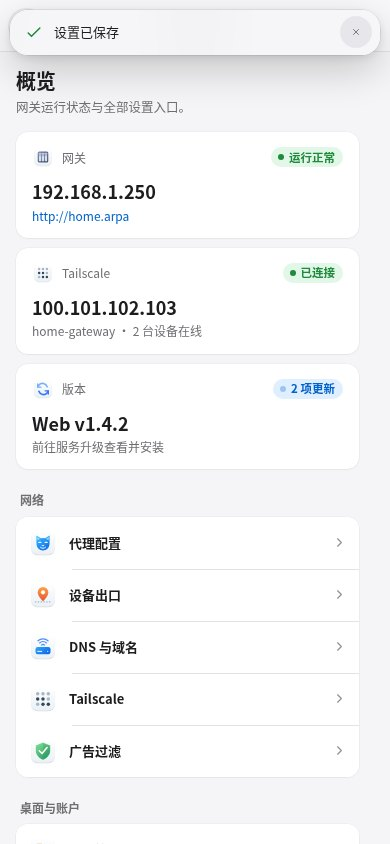
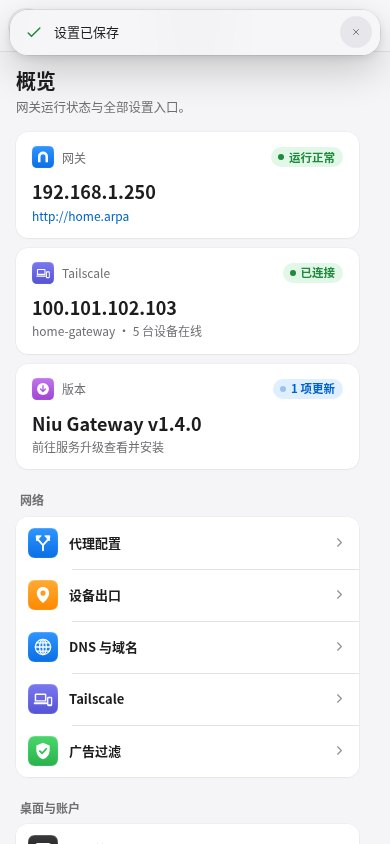
Let windows stretch freely, explain NAS desktops that cannot run in a window, and refresh the README
Windows were capped at the size the browser had when they opened, and could
not reach into the Dock area. They now resize up to the whole browser window,
down behind the Dock as on macOS, while zoom still stops above the Dock.

A NAS web desktop such as UGOS Pro reads its own objects from the window
above it. Inside a window on another origin that read throws and the page
stays blank. The frame check now also reads the page's inline scripts and
reports such reads, and the window explains it and offers a new tab; because
this is a judgement from the script text, the page can stay in the window.

The README gets an AI-generated showcase and architecture diagram, fresh
captures of the current UI, the Account & Security wording, the proxy editor
section names, the window behaviour and where Niu Gateway releases are
published. CONTRIBUTING records the release tag and the 0.01 version step.

diff --git a/gateway/web/app.js b/gateway/web/app.js
@@ -481,7 +481,7 @@ async function loadOverview(request){
   }else{setTone($('#overview-ts-state'),'读取失败','error');$('#overview-ts-ip').textContent='—';$('#overview-ts-detail').textContent=ts.reason.message;}
   const info=release.status==='fulfilled'?release.value:null,u=updateState.status==='fulfilled'?updateState.value:null,count=countUpdates(u,info);
   setUpdateBadge(count);
-  $('#overview-web-version').textContent=info?'Web '+releaseLabel(info.current):'—';
+  $('#overview-web-version').textContent=info?'Niu Gateway '+releaseLabel(info.current):'—';
   const detail=$('#overview-update-detail'),state=$('#overview-update-state');
   if(!u&&!info){setTone(state,'读取失败','error');detail.textContent=(updateState.reason||release.reason).message;}
   else if(count){setTone(state,count+' 项更新','busy');detail.textContent='前往服务升级查看并安装';}
@@ -638,14 +638,18 @@ function createGatewayWindow(shell, title, iconPath, close, {toolbar=null, app='
   const mobile=phone.matches,bounds=windowBounds();
   const w=Math.min(width,innerWidth-48),h=Math.min(height,innerHeight-bounds.top-bounds.bottom-24);
   const win = new WinBox({title, icon:iconPath, mount:shell, class:['gateway-window','no-full'],
-    width:w, height:h, minwidth:Math.min(420,innerWidth), minheight:Math.min(320,innerHeight), x:'center',
-    y:mobile ? 0 : Math.max(bounds.top+8,bounds.top+(innerHeight-bounds.top-bounds.bottom-h)/2), top:bounds.top, bottom:bounds.bottom,
+    // The browser window bounds a window's size, not the size it had when the window opened.
+    width:w, height:h, minwidth:Math.min(420,innerWidth), minheight:Math.min(320,innerHeight), maxwidth:Infinity, maxheight:Infinity, x:'center',
+    y:mobile ? 0 : Math.max(bounds.top+8,bounds.top+(innerHeight-bounds.top-bounds.bottom-h)/2), top:bounds.top, bottom:0,
     header:52, max:mobile,
     onclose(force) { if (force) return false; close(); return true; },
     onfocus(){ lastGatewayWindow=this; $('#menubar-app').textContent=title; },
     onblur(){ if(!document.querySelector('.winbox.focus'))$('#menubar-app').textContent='Niu Gateway'; },
     onminimize(){ $('#menubar-app').textContent='Niu Gateway'; }});
   win.app=app;
+  // As on macOS, a window can be stretched or moved down behind the Dock, while zoom stops above it.
+  const zoom=win.maximize;
+  win.maximize=function(state){this.bottom=windowBounds().bottom;try{return zoom.call(this,state);}finally{this.bottom=0;}};
   for (const [cls, action] of [['wb-close','关闭'],['wb-min','最小化'],['wb-max','缩放']]) {
     const control = win.window.querySelector('.'+cls);
     control.setAttribute('role','button');
@@ -729,19 +733,22 @@ function openFrameApp(key,app=frameApps[key]){
   const win=createGatewayWindow(shell,app.title,app.icon,()=>closeFrameApp(key),{toolbar:bar,app:key,width:app.width,height:app.height});
   frameWindows.set(key,win);markRunningApps();
 }
-// Another host may be offline, use a certificate this browser has not trusted yet, or
-// forbid other pages from showing it. A page cannot read a cross-origin frame, so ask the
-// host directly, and let the gateway read the headers that decide whether it may be framed.
+// Another host may be offline, use a certificate this browser has not trusted yet, forbid
+// other pages from showing it, or run only as the top window. A page cannot read a
+// cross-origin frame, so ask the host directly, and let the gateway read its headers and scripts.
 const frameProblems={
   unreachable:'地址暂时无法访问，或这个网站使用了浏览器尚未信任的证书。请先在新标签页中打开它（自签名证书需要先选择继续访问），再回到这里重试。',
   refused:'这个网站不允许其他页面把它显示在窗口里（网站的 X-Frame-Options 或 CSP 设置），窗口中只会是空白。请在新标签页中打开它。',
   mixed:'当前网关页面通过 HTTPS 打开，浏览器不允许在其中显示 HTTP 网站。请在新标签页中打开它。',
+  parent:'这个页面只能作为独立页面运行（例如 NAS 的网页桌面会读取上层窗口），放在窗口里通常只会显示空白。请在新标签页中打开它。',
 };
 function frameNotice(key,app,page,retry){
   const notice=element('div',undefined,'frame-notice'),box=element('div',undefined,'frame-notice-box'),actions=element('div',undefined,'window-actions');
   const image=element('img');image.src=app.icon;image.alt='';image.width=64;image.height=64;
   const tab=element('a','在新标签页中打开','button-link');tab.href=page;tab.target='_blank';tab.rel='noopener noreferrer';
   const copy=element('p'),again=button('重试',retry,'primary');actions.append(tab,again);
+  // The page-script check is a judgement, not a header: let a page that works stay in the window.
+  const stay=button('继续在窗口中显示',()=>{notice.hidden=true;});actions.prepend(stay);
   // A link that can never show in a window can switch to a new tab for good.
   const card=key.startsWith('link:')?cards.find(c=>'link:'+c.id===key):null;
   const always=card&&button('以后都在新标签页打开',()=>{
@@ -751,7 +758,7 @@ function frameNotice(key,app,page,retry){
   if(always)actions.prepend(always);
   notice.show=kind=>{
     copy.textContent=frameProblems[kind];const final=kind!=='unreachable';
-    again.hidden=final;tab.classList.toggle('primary',final);if(always)always.hidden=!final;notice.hidden=false;
+    again.hidden=final;stay.hidden=kind!=='parent';tab.classList.toggle('primary',final);if(always)always.hidden=!final;notice.hidden=false;
   };
   box.append(image,element('strong','无法在窗口中打开“'+app.title+'”'),copy,actions);
   notice.append(box);notice.hidden=true;return notice;
@@ -764,7 +771,8 @@ async function checkFrame(url,shell){
   const framing=api('/frame-check?url='+encodeURIComponent(target.href)+'&origin='+encodeURIComponent(location.origin)).catch(()=>null);
   try{await fetch(target.href,{mode:'no-cors',cache:'no-store',credentials:'omit',referrerPolicy:'no-referrer',signal:AbortSignal.timeout?.(10000)});}
   catch{show('unreachable');return;}
-  if((await framing)?.framable===false)show('refused');
+  const verdict=await framing;
+  if(verdict?.framable===false)show(verdict.reason==='parent-window'?'parent':'refused');
 }
 function closeFrameApp(key){
   const win=frameWindows.get(key);if(!win)return;

diff --git a/gateway/web/index.html b/gateway/web/index.html
@@ -446,6 +446,6 @@
   <script src="/vendor/winbox/winbox.min.js?v=cd0b4efd9450"></script>
   <script src="/proxy-editor.js?v=5e068a45ef9a"></script>
   <script src="/build-info.js?v=42e43273fa60"></script>
-  <script src="/app.js?v=100eb2b095a1"></script>
+  <script src="/app.js?v=f49bb406eca5"></script>
 </body>
 </html>

diff --git a/gateway/app/favicon.py b/gateway/app/favicon.py
@@ -129,27 +129,37 @@ def follow(url, deadline, accept, use):
     raise ValueError('Icon unavailable')
 
 
+def read_upto(response, sock, size, deadline):
+    """Read at most `size` bytes of a response body."""
+    chunks, total = [], 0
+    while total < size:
+        # read1 avoids waiting for an entire chunk when a peer trickles data.
+        timeout = remaining(deadline)
+        if sock.fileno() >= 0:
+            sock.settimeout(timeout)
+        chunk = response.read1(min(65536, size - total))
+        if not chunk:
+            break
+        chunks.append(chunk)
+        total += len(chunk)
+    return b''.join(chunks)
+
+
+def readable(response):
+    return response.status == 200 and response.getheader('Content-Encoding', 'identity').lower() == 'identity'
+
+
 def fetch(url, limit, deadline):
     def read(response, sock, url):
-        if response.status != 200 or response.getheader('Content-Encoding', 'identity').lower() != 'identity':
+        if not readable(response):
             raise ValueError('Icon unavailable')
         length = response.getheader('Content-Length')
         if length is not None and int(length) > limit:
             raise ValueError('Icon response too large')
-        chunks, size = [], 0
-        while True:
-            # read1 avoids waiting for an entire chunk when a peer trickles data.
-            timeout = remaining(deadline)
-            if sock.fileno() >= 0:
-                sock.settimeout(timeout)
-            chunk = response.read1(min(65536, limit + 1 - size))
-            if not chunk:
-                break
-            chunks.append(chunk)
-            size += len(chunk)
-            if size > limit:
-                raise ValueError('Icon response too large')
-        return b''.join(chunks), response.getheader('Content-Type', ''), url
+        body = read_upto(response, sock, limit + 1, deadline)
+        if len(body) > limit:
+            raise ValueError('Icon response too large')
+        return body, response.getheader('Content-Type', ''), url
     return follow(url, deadline, ICON_ACCEPT, read)
 
 
@@ -216,6 +226,30 @@ def frame_verdict(headers, page, resource):
     return ''
 
 
+# A page may also run only as the top window. A NAS desktop such as UGOS Pro reads its own
+# objects from the window above it; in a frame on another origin that read throws and the
+# page stays blank. Only these properties of another origin's window can be used.
+CROSS_ORIGIN_WINDOW = {'blur', 'close', 'closed', 'focus', 'frames', 'length', 'location', 'opener',
+                       'parent', 'postMessage', 'self', 'top', 'window'}
+SCRIPT = re.compile(r'<script\b([^>]*)>(.*?)</script\s*>', re.I | re.S)
+SCRIPT_TYPE = re.compile(r'\btype\s*=\s*["\']?([^"\'\s>]+)', re.I)
+PARENT_READ = re.compile(r'(?<![\w$.])(?:(?:window|self|globalThis)\s*\.\s*)?(?:parent|top)\s*'
+                         r'(?:\.\s*([A-Za-z_$][\w$]*)|\[\s*(["\'])([^"\'\\]+)\2\s*\])')
+
+
+def reads_parent_window(html):
+    """Whether an inline script of the page reads a property another origin's window does not expose."""
+    for attributes, code in SCRIPT.findall(html):
+        kind = SCRIPT_TYPE.search(attributes)
+        kind = kind.group(1).lower() if kind else ''
+        if re.search(r'\bsrc\s*=', attributes, re.I) or (kind and kind != 'module' and 'javascript' not in kind and 'ecmascript' not in kind):
+            continue
+        for match in PARENT_READ.finditer(code):
+            if (match.group(1) or match.group(3)) not in CROSS_ORIGIN_WINDOW:
+                return True
+    return False
+
+
 def frame_check(value, origin):
     """Whether a page at `origin` can show `value` in a frame: True, False, or None when the site cannot be read."""
     page = parse_origin(origin)
@@ -223,11 +257,20 @@ def frame_check(value, origin):
     if not _requests.acquire(blocking=False):
         return None, ''
     try:
+        deadline = time.monotonic() + TIME_BUDGET
+
         def verdict(response, sock, final):
             parsed = urlsplit(final)
             resource = parsed.scheme, parsed.hostname.lower(), parsed.port or DEFAULT_PORTS[parsed.scheme]
-            return frame_verdict(response.headers, page, resource)
-        reason = follow(url, time.monotonic() + TIME_BUDGET, 'text/html,*/*;q=0.8', verdict)
+            reason = frame_verdict(response.headers, page, resource)
+            if reason or resource == page or not readable(response) or 'html' not in response.getheader('Content-Type', '').lower():
+                return reason
+            try:
+                html = read_upto(response, sock, MAX_HTML, deadline)
+            except (OSError, http.client.HTTPException):
+                return ''
+            return 'parent-window' if reads_parent_window(html.decode('utf-8', errors='replace')) else ''
+        reason = follow(url, deadline, 'text/html,*/*;q=0.8', verdict)
     except (ValueError, OSError, http.client.HTTPException):
         return None, ''
     finally:

diff --git a/gateway/tests/test_favicon.py b/gateway/tests/test_favicon.py
@@ -59,6 +59,9 @@ class FixtureHandler(BaseHTTPRequestHandler):
             body = b'<html></html>'
             headers['X-Frame-Options'] = 'DENY'
             headers['Content-Security-Policy'] = "default-src 'self'; frame-ancestors 'self' http://192.168.1.250"
+        elif self.path == '/desktop':
+            # A NAS desktop that runs only as the top window.
+            body = b'<html><script>window.mainProcess = window.parent.mainProcess;</script></html>'
         elif self.path in ('/assets/icon.png', '/favicon.ico'):
             body = PNG
             headers['Content-Type'] = 'image/png'
@@ -168,6 +171,9 @@ class FaviconTests(unittest.TestCase):
             self.assertEqual(favicon.frame_check(self.base + '/login', gateway), (False, 'x-frame-options'))
             self.assertEqual(favicon.frame_check(self.base + '/csp', gateway), (True, ''))
             self.assertEqual(favicon.frame_check(self.base + '/csp', 'http://192.168.1.99'), (False, 'frame-ancestors'))
+            self.assertEqual(favicon.frame_check(self.base + '/desktop', gateway), (False, 'parent-window'))
+            # The same page served by the gateway itself may read its parent.
+            self.assertEqual(favicon.frame_check(self.base + '/desktop', self.base), (True, ''))
         self.assertIn('/xfo-sameorigin', [path for path, _ in FixtureHandler.requests])
         for _, headers in FixtureHandler.requests:
             self.assertNotIn('Cookie', headers)
@@ -200,6 +206,26 @@ class FaviconTests(unittest.TestCase):
             with self.subTest(policy=policy, page=page):
                 self.assertEqual(verdict(page, Content_Security_Policy=policy), expected)
         self.assertEqual(verdict(gateway, Content_Security_Policy=['frame-ancestors *', "frame-ancestors 'self'"]), 'frame-ancestors')
+
+    def test_pages_that_read_their_parent_window(self):
+        cases = {
+            '<script>window.mainProcess = window.parent.mainProcess;</script>': True,
+            '<script>const p = top.mainProcess</script>': True,
+            "<script>var m = window.top['mainProcess'];</script>": True,
+            '<script>document.title = self.parent.document.title</script>': True,
+            '<script type="module">window.parent.app.start()</script>': True,
+            '<SCRIPT type="text/javascript">parent.desktop.open()</SCRIPT>': True,
+            '<script>if (window.top !== window.self) top.location = location.href</script>': False,
+            "<script>window.parent.postMessage({ready: true}, '*')</script>": False,
+            '<script>node.parent.children.length; el.style.top.length</script>': False,
+            '<script type="application/json">{"a": "top.secret"}</script>': False,
+            '<script src="parent.js">window.parent.x</script>': False,
+            '<script>if (window.parent === window) start()</script>': False,
+            '<p>window.parent.mainProcess</p>': False,
+        }
+        for html, expected in cases.items():
+            with self.subTest(html=html):
+                self.assertIs(favicon.reads_parent_window(html), expected)
 
 
 if __name__ == '__main__':

diff --git a/gateway/README.md b/gateway/README.md
@@ -73,11 +73,11 @@ macvlan 使容器拥有独立 LAN 地址，因此不映射宿主的 80/53 端口
 
 ## 首次设置与日常使用
 
-1. 用局域网浏览器打开 `http://192.168.10.2`，默认管理员密码为 `root`。登录后可在“设置 → 账户”修改，支持 1–256 个字符。`GATEWAY_ADMIN_PASSWORD` 只用于全新容器首次初始化；重启保留已保存的网页密码。删除或重建容器前应备份，并在新容器启动前恢复数据。改密后当前浏览器会话续期，其余旧会话失效。
+1. 用局域网浏览器打开 `http://192.168.10.2`，默认管理员密码为 `root`。登录后可在“设置 → 账户与安全”修改，支持 1–256 个字符。`GATEWAY_ADMIN_PASSWORD` 只用于全新容器首次初始化；重启保留已保存的网页密码。删除或重建容器前应备份，并在新容器启动前恢复数据。改密后当前浏览器会话续期，其余旧会话失效。
 
    容器 SSH 默认账号和密码均为 `root`，可通过 Compose 的 `GATEWAY_CONTAINER_USER` 和 `GATEWAY_CONTAINER_PASSWORD` 修改，重建后应用；SSH 账号设置与网页密码独立。新建容器的 root HOME 位于 `/data/home`，随 `/data` 备份；Linux 原生安装保留宿主 root HOME。GitHub CLI 已安装，使用自己的账号运行 `gh auth login`，凭据保存在容器内部 HOME 中，干净镜像不包含个人登录。
 
-   可信私网可在“设置 → 账户 → 密码登录”关闭“进入网关时需要密码”，输入当前密码并保存。关闭后，能访问网页的设备可直接管理网关、Clash 和 AdGuard Home；SSH 认证独立保留。原网页密码和登录开关保存在容器内部，重启沿用，改密不会改变开关。重新开启仍需当前密码，并使其他旧会话失效。全新容器默认开启密码登录；管理员密码和登录开关均不随配置备份导出或恢复。
+   可信私网可在“设置 → 账户与安全”关闭“登录需要密码”，输入当前密码并保存。关闭后，能访问网页的设备可直接管理网关、Clash 和 AdGuard Home，也可以使用网页终端；SSH 认证独立保留。原网页密码和登录开关保存在容器内部，重启沿用，改密不会改变开关。重新开启仍需当前密码，并使其他旧会话失效。全新容器默认开启密码登录；管理员密码和登录开关均不随配置备份导出或恢复。
 2. 从 Dock 或“设置 → 代理配置”打开代理配置。可从当前配置开始，也可在“YAML 配置”中导入 Clash/Mihomo 的 `.yaml` 或 `.yml`（最大 2 MB）。
    - “订阅地址”支持添加、编辑和删除。保存后，业务分组和 AI 中转组直接列出合并的订阅节点。订阅先按名称过滤免费、流量、到期、套餐和更新订阅等提示项，再按订阅顺序合并。默认列表中的同名节点只显示一次。可在此修改 `proxy-providers` 的 HTTP(S) 地址。
    - “中转出口”支持多个 HTTP、HTTPS 或 SOCKS5 节点，可修改名称、服务器、端口和认证。HTTP 和 HTTPS 出口必须经过中转，在编辑器中保存时前置代理固定为 `🔗 PROXY-RELAY`；还没有订阅地址时这些出口无法连通。SOCKS5 出口的前置代理默认也是 `🔗 PROXY-RELAY`，可以改为“无”。
@@ -101,19 +101,19 @@ macvlan 使容器拥有独立 LAN 地址，因此不映射宿主的 80/53 端口
 
 ## 桌面与设置窗口
 
-- 页面采用 macOS 风格：顶部菜单栏，底部 Dock，桌面放自定义链接。Dock 默认放控制面板、代理配置、局域网互传、工作站、终端、Clash 面板和 AdGuard Home。它们和自定义链接都在当前页面的窗口中打开，不新开标签页；窗口工具栏可重新载入，或在新标签页中打开。打不开的外部地址（离线，或浏览器尚未信任的自签名证书）会在窗口里提示先在新标签页打开，再重试。网站用 `X-Frame-Options` 或 CSP `frame-ancestors` 禁止被其他页面嵌入时，浏览器只会显示空白；网关在打开窗口时读取这些响应头（只读响应头，不带浏览器的 Cookie），窗口会说明原因，并提供“在新标签页中打开”和“以后都在新标签页打开”。网关页面通过 HTTPS 打开时，HTTP 网站同样只能在新标签页中打开。
+- 页面采用 macOS 风格：顶部菜单栏，底部 Dock，桌面放自定义链接。Dock 默认放控制面板、代理配置、局域网互传、工作站、终端、Clash 面板和 AdGuard Home。它们和自定义链接都在当前页面的窗口中打开，不新开标签页；窗口工具栏可重新载入，或在新标签页中打开。打不开的外部地址（离线，或浏览器尚未信任的自签名证书）会在窗口里提示先在新标签页打开，再重试。网站用 `X-Frame-Options` 或 CSP `frame-ancestors` 禁止被其他页面嵌入时，浏览器只会显示空白；网关在打开窗口时读取这些响应头（只读响应头，不带浏览器的 Cookie），窗口会说明原因，并提供“在新标签页中打开”和“以后都在新标签页打开”。有些网页只能作为独立页面运行：例如 UGOS Pro 等 NAS 的网页桌面会读取上层窗口里的对象，放进其他地址的窗口后脚本出错，同样只剩空白。网关会读取页面自带的内联脚本（最多 256 KB），发现它读取上层窗口时给出同样的说明；这是根据脚本内容的判断，页面其实能用时可选“继续在窗口中显示”。网关页面通过 HTTPS 打开时，HTTP 网站同样只能在新标签页中打开。
 - 工作站默认在窗口中打开 `https://工作站地址:6080/`（按部署时的 `WORKSTATION_ADDRESS` 生成，默认 `https://192.168.1.251:6080/`），可在“设置 → 桌面管理”或右键 Dock 中工作站图标的“设置入口地址”中修改 IP、域名、协议和端口。
 - “终端”使用开源的 [ttyd](https://github.com/tsl0922/ttyd)，在窗口中打开网关的 root shell（`bash --login`）。ttyd 只监听容器内的 Unix socket，不开放 TCP 端口，局域网和代理端口都无法直接连到它；Nginx 在转发前按网关的登录设置检查会话（开启“登录需要密码”时需要已登录；关闭后与其他页面一样直接可用），WebSocket 必须来自网关页面本身。终端随网关镜像提供：在线更新 Niu Gateway 不会安装它，旧镜像会提示更新镜像；原生安装不内置终端。
 - 菜单栏左侧是系统菜单和当前窗口名称；右侧显示可用更新、Tailscale 状态和时间，点击可进入对应设置。系统菜单提供关于、控制面板、代理配置、局域网互传、添加桌面链接、个性化和退出登录；“关于 Niu Gateway”显示版本、访问地址、许可证和 GitHub 开源地址。
 - 在桌面空白处右键，可添加链接、刷新桌面、整理图标、按名称排列、打开个性化或控制面板。在图标上右键，可打开、在新标签页中打开、放入程序坞或移到桌面；自定义链接还可编辑或删除。
 - 桌面图标可以拖到任意位置，自动对齐网格；拖到 Dock 上会插入到指针所在的位置，从 Dock 拖到桌面会放在松开的位置。网关应用和自定义链接都可以这样移动。聚焦图标后，`Alt + 方向键` 在桌面上移动一格，或在 Dock 里左右移动。“设置 → 桌面管理”可恢复默认布局，那里的上移、下移按钮决定手机主屏的顺序。工作站地址与桌面布局保存在网关内部，刷新、重启或更换浏览器后都会保留，并包含在网页配置备份中。手机可长按图标打开菜单；键盘可按 `Shift+F10` 打开菜单，方向键选择，`Esc` 关闭。
-- 窗口支持拖动、调整大小、最小化（收进 Dock）和最大化。控制面板首页为“概览”，汇总网关地址与服务状态、Tailscale 连接和可用更新；侧栏可搜索设置，回车打开第一项。窗口较窄时侧栏隐藏，通过工具栏的返回按钮回到列表。
+- 窗口支持拖动、自由调整大小、最小化（收进 Dock）和缩放。宽高最大到整个浏览器窗口，浏览器窗口变大后也能继续拉大；下边缘可以拉到 Dock 后面，和 macOS 一样，绿色缩放按钮仍停在 Dock 上方。控制面板首页为“概览”，汇总网关地址与服务状态、Tailscale 连接和可用更新；侧栏可搜索设置，回车打开第一项。窗口较窄时侧栏隐藏，通过工具栏的返回按钮回到列表。
 - 手机上是 iOS 式主屏：顶部状态栏，四列图标，底部 Dock 放程序坞里的前 4 个应用，其余的排在主屏最前面；长按图标可放入程序坞或移到桌面。应用全屏打开，左上角关闭后回到主屏。
 - “设置 → 账户与安全”中，切换“登录需要密码”后才显示当前密码确认区；“设置 → 备份与恢复”需选择备份文件并勾选确认后才能恢复。
 - “个性化”可更换 3 MB 以内的 PNG、JPEG 或 WebP 壁纸，选择填充、适应、拉伸、居中或平铺。点击“应用”后保存到容器内部，刷新页面后保留；“恢复默认”同样需要点击“应用”。
 - 保存、导入、账户、链接、个性化和表单校验的反馈统一以通知显示：桌面在右下角 Dock 上方，不遮挡窗口工具栏；手机在顶部。通知可以关闭，悬停或键盘聚焦时暂停自动收起，不会挤动窗口内容。
 
-界面示例：[控制面板概览](../docs/images/gateway-control-panel.jpg)、[暗色模式](../docs/images/gateway-control-panel-dark.jpg)、[Clash 配置](../docs/images/gateway-clash-editor.jpg)、[手机主屏](../docs/images/gateway-home-mobile.jpg)、[手机尺寸控制面板](../docs/images/gateway-control-panel-mobile.jpg)、[桌面操作提示](../docs/images/gateway-global-toast-desktop.jpg)、[手机尺寸操作提示](../docs/images/gateway-global-toast-mobile.jpg)。手机尺寸截图来自浏览器响应式视口。
+界面示例：[控制面板概览](../docs/images/gateway-control-panel.jpg)、[暗色模式与 Tailscale 设备](../docs/images/gateway-control-panel-dark.jpg)、[代理配置](../docs/images/gateway-clash-editor.jpg)、[账户与安全](../docs/images/gateway-password-login.jpg)、[手机主屏](../docs/images/gateway-home-mobile.jpg)、[手机尺寸控制面板](../docs/images/gateway-control-panel-mobile.jpg)、[桌面操作提示](../docs/images/gateway-global-toast-desktop.jpg)、[手机尺寸操作提示](../docs/images/gateway-global-toast-mobile.jpg)。手机尺寸截图来自浏览器响应式视口。
 
 窗口、右键菜单、表单、下拉框和确认弹窗随当前外观模式统一切换。浏览器选择本地文件的系统对话框仍由浏览器提供。
 

diff --git a/README.en.md b/README.en.md
@@ -16,9 +16,9 @@ The web console and most of the documentation are in Simplified Chinese. This pa
 
 ![Niu Gateway and AI Workstation](docs/images/gateway-home.png)
 
-*Promotional image; the running version is authoritative. [About the images](docs/images/README.md)*
+*AI-generated promotional image; the running version is authoritative. [About the images](docs/images/README.md)*
 
-Screenshots of the actual UI: [Niu Gateway desktop](docs/images/gateway-control-panel.jpg), [Clash proxy editor](docs/images/gateway-clash-editor.jpg), [phone home screen](docs/images/gateway-home-mobile.jpg), [notifications](docs/images/gateway-global-toast-desktop.jpg).
+Screenshots of the actual UI: [control panel](docs/images/gateway-control-panel.jpg), [dark mode and Tailscale devices](docs/images/gateway-control-panel-dark.jpg), [proxy editor](docs/images/gateway-clash-editor.jpg), [account and security](docs/images/gateway-password-login.jpg), [phone home screen](docs/images/gateway-home-mobile.jpg), [control panel at phone size](docs/images/gateway-control-panel-mobile.jpg), [notifications](docs/images/gateway-global-toast-desktop.jpg).
 
 ## Features
 
@@ -28,12 +28,12 @@ Screenshots of the actual UI: [Niu Gateway desktop](docs/images/gateway-control-
 | Workstation | `192.168.1.251` | XFCE, Chrome, VS Code, Codex, Claude Code, Claude Desktop, GitHub CLI, MCP tools | `ghcr.io/crazyniu/ai-workstation` |
 
 - Niu Gateway, the gateway's port-80 page, is a desktop with a menu bar and Dock, with app and settings icons in the macOS style. The control panel, proxy editor, LAN file transfer, the workstation desktop, the Clash dashboard (MetaCubeXD), AdGuard Home and your own links open in windows on the same page. On a phone it becomes a home screen.
-- Drag any icon to any place on the desktop, or into and out of the Dock. "About Niu Gateway" in the menu bar shows the version and the GitHub repository. When a new version is out, the update window shows its release notes rendered from Markdown.
-- The gateway has a Terminal app ([ttyd](https://github.com/tsl0922/ttyd), open source) that opens a root shell on the gateway in a desktop window. It ships with the gateway image and follows the same login setting as the rest of the console.
+- Drag any icon to any place on the desktop, or into and out of the Dock. Windows resize freely up to the whole browser window, with the bottom edge allowed behind the Dock as on macOS; the green zoom button still stops above the Dock. "About Niu Gateway" in the menu bar shows the version and the GitHub repository. When a new version is out, the update window shows its release notes rendered from Markdown.
+- The gateway has a Terminal app ([ttyd](https://github.com/tsl0922/ttyd), open source) that opens a root shell on the gateway in a desktop window. It ships with the gateway image and follows the same login setting as the rest of the console (账户与安全 → 登录需要密码, Account & Security → require a password).
 - The Tailscale page lists every device with its online state, addresses, traffic and connection path (direct, or DERP relay with the relay's name), and links to Tailscale's access controls, where you configure your own DERP relay servers.
-- The proxy editor assigns an HTTP, HTTPS or SOCKS5 exit to a single IP, an IP range or a subnet, chained through a relay node from your subscription. HTTP and HTTPS exits always go through the relay; for SOCKS5 it is the default. You can also create groups (for example Google or YouTube) and route their domains to a chosen exit. Every change goes into a draft that you apply or discard.
-- Desktop links can fetch site favicons or use custom icons, and can open in a new tab instead of a window. If a site does not allow being shown inside another page, its window says so and offers a new tab. Wallpaper, theme, layout and account settings are stored on the gateway.
-- The gateway asks for a password by default; on a trusted private network you can turn that off in the account settings. The workstation serves an HTTPS noVNC desktop with two-way text clipboard.
+- The proxy editor assigns an HTTP, HTTPS or SOCKS5 exit to a single IP, an IP range or a subnet (设备出口, device exits), chained through a relay node from your subscription (中转出口 relay exits, 订阅地址 subscription URL). HTTP and HTTPS exits always go through the relay; for SOCKS5 it is the default. You can also create groups (分组规则, for example Google or YouTube) and route their domains to a chosen exit. Every change goes into a draft that you apply or discard.
+- Desktop links can fetch site favicons or use custom icons, and can open in a new tab instead of a window. If a site does not allow being shown inside another page, or runs only as a top-level page (a NAS web desktop, for example), its window explains why and offers a new tab, once or for good. Wallpaper, theme, layout and account settings are stored on the gateway.
+- The gateway asks for a password by default; on a trusted private network you can turn that off under 账户与安全 (Account & Security), which also opens the web terminal without a password. The workstation serves an HTTPS noVNC desktop with two-way text clipboard.
 - The gateway manages proxy configuration, DNS, subnet access, component upgrades, and backup and restore.
 - The workstation joins the LAN directly and can open connections to a paired Mac running Orca. To restrict which LAN devices it can reach, keep the Orca port (or other device ports) with **niu.sh → 7** and then enable the optional [LAN isolation](docs/workstation-egress.md#显式启用隔离).
 - Configuration, HOME and account identities stay inside each container. Public images contain only programs and default templates; you add your own subscriptions, identities and data.
@@ -140,7 +140,7 @@ The Docker deployments declare no bind mounts, named volumes or anonymous volume
 
 **Restarting a container keeps its data; deleting or recreating it loses that data.** Before replacing an image, export the private state you need and verify the restore procedure: see [gateway data handling](gateway/README.md) and [workstation backup and restore](workstation/README.md). Keep personal state, recovery images and credentials in private storage.
 
-Component upgrades inside Niu Gateway keep the configuration in `/data` and roll back on failure. Niu Gateway's own pages and API update online under 服务升级 (Updates); nginx, Python, ttyd and the base system are updated by replacing the image.
+Component upgrades inside Niu Gateway keep the configuration in `/data` and roll back on failure. Niu Gateway's own pages and API are released separately on [GitHub Releases](https://github.com/crazyniu/ai-workstation/releases) (tags `gateway-web-vX.Y.Z`); the menu bar shows when a new one is out, and 服务升级 (Updates) shows its release notes and installs it online; nginx, Python, ttyd and the base system are updated by replacing the image.
 
 ## Development
 

diff --git a/docs/images/README.md b/docs/images/README.md
@@ -1,18 +1,19 @@
 # Project showcase
 
-[Niu Gateway desktop overview](gateway-home.png) presents the forest-and-lake desktop, application icons, and grouped control-panel entries used by this project.
+[Niu Gateway showcase](gateway-home.png) is an AI-generated image of the gateway desktop in a browser beside a phone: the coastal wallpaper, the menu bar, the Dock with the project's app icons, and the control panel overview with its status cards. It was generated from the real captures below as references and redrawn, not composited from them.
 
 The image is a project showcase. The running release determines the current interface, labels, and features. It contains no account credentials and serves as presentation material; functional verification is recorded separately.
 
 ## Architecture diagram
 
-[Workstation and gateway architecture](workstation-gateway-architecture.png) is an AI-generated diagram of the Linux LAN deployment and its optional workstation isolation. Addresses and connection directions follow the deployment configuration.
+[Niu Gateway and AI Workstation architecture](workstation-gateway-architecture.png) is an AI-generated diagram of the Linux LAN deployment and its optional workstation isolation. Addresses and connection directions follow the deployment configuration.
 
 ## Gateway interface captures
 
 - [Control panel overview](gateway-control-panel.jpg) shows the desktop at 1280 × 800: the menu bar, the Dock, and the control panel window with its unified toolbar, edge-to-edge sidebar, status cards and grouped setting entries.
-- [Control panel in dark mode](gateway-control-panel-dark.jpg) shows the Tailscale page with status pills and the subnet-route card.
-- [Clash editor](gateway-clash-editor.jpg) shows the proxy configuration window: site groups with their exits, on/off switches and the fallback for other sites.
+- [Control panel in dark mode](gateway-control-panel-dark.jpg) shows the Tailscale page: the connection card and the device list with each device's connection path (direct or DERP relay) and traffic.
+- [Proxy editor](gateway-clash-editor.jpg) shows the proxy configuration window on its 分组规则 (group rules) page: site groups with their exits, on/off switches and the fallback for other sites.
+- [Account and security](gateway-password-login.jpg) shows the 账户与安全 page at 1280 × 720: the 登录需要密码 switch, the administrator password form and the current session.
 - [Desktop operation feedback](gateway-global-toast-desktop.jpg) shows the notification above the Dock, clear of window toolbars.
 - [Phone home screen](gateway-home-mobile.jpg) shows the 390px layout: status bar, four-column icon grid and the Dock.
 - [Control panel at phone size](gateway-control-panel-mobile.jpg) shows the full-screen overview in a 390px browser responsive viewport.

diff --git a/CONTRIBUTING.md b/CONTRIBUTING.md
@@ -52,6 +52,8 @@ python3 gateway/runtime/build-info.py
 
 合并到 `main` 后，只重新构建自上次成功发布以来源码有变化的镜像，覆盖全部架构并验证通过后发布；未变化的镜像把上次发布的版本标记为本次提交的 `sha-<提交号>` 和 `latest`。发布失败时 `latest` 保持上一个通过验证的版本。其他架构的问题可能在合并后才发现，需要提前确认时使用 `full-ci`。测试失败、取消或未正常报告都会阻止通过。合并使用 squash 或 rebase。
 
+Niu Gateway 的网页和 API 另外通过 GitHub Releases 发布：维护者在已合并的 `main` 提交上推送 `gateway-web-vX.Y.Z` 标签，[发布工作流](.github/workflows/gateway-web-release.yml) 打包 `gateway-web.tar.gz` 并设为最新版本，网关的“服务升级”据此在线更新。版本号每次加 0.01，例如 v1.4.0 → v1.4.1。
+
 仓库已开启 GitHub 自动合并。完成授权开发并创建非草稿 PR 后，立即执行 `gh pr merge <编号> --auto --squash --match-head-commit <当前提交>`，由 GitHub 在必过检查及其他保护条件满足后合并。依赖 PR 按顺序合并，后续分支移到最新 `main` 再验证；提交者持续处理 CI 失败并确认最终合并状态。
 
 仓库当前只有一名维护者，审批票数为 0，保留 PR 和 CI 门槛；加入其他维护者后可提高审批票数并启用最新推送需他人批准。实际服务器规则见 [Protect default branch](https://github.com/crazyniu/ai-workstation/rules/25768868)，版本化配置为 [main.json](.github/rulesets/main.json)；更新规则时同时核对工作流的检查名和 GitHub Actions 来源。
